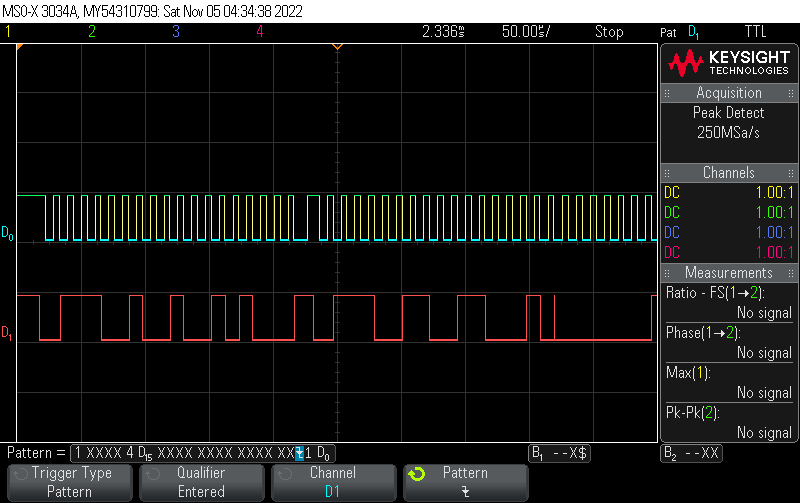
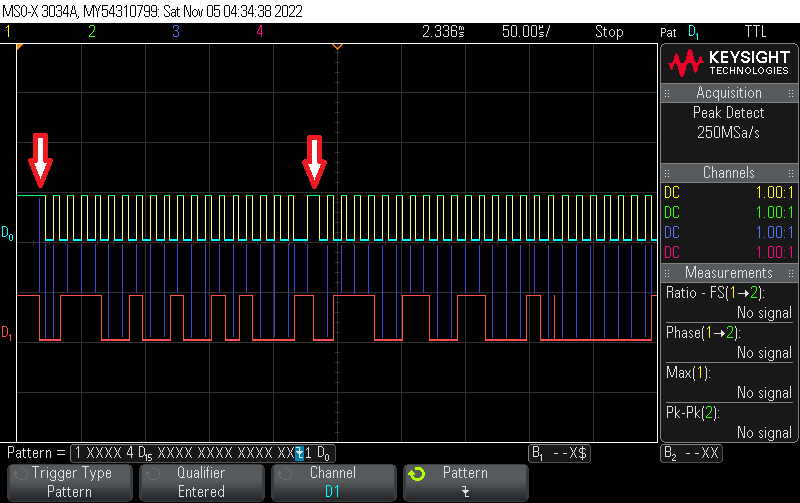
Updating section 05 with annotations

Changed region(s): [[0.375, 0.2684, 0.4062, 0.3877], [0.0312, 0.2684, 0.0625, 0.3877]]

diff --git a/lab/05_i2c_traffic/README.md b/lab/05_i2c_traffic/README.md
@@ -8,3 +8,29 @@
 
 Also captured the raw data from the logic analyzer. The computers in the lab also have an Excel plugin that lets you import the data directly from the scopes.
 Doesn't look like I got a full transaction due to limits of what I could fit on the screen, but I think I at least got the transmission of the device address.
+
+![](part5-i2c-apds_9960-individual-waveforms-annotations.png)
+
+### First section (red arrow)
+
+|Observed bits|Value|7-bit address|Note|
+|-------------|-----|-------------|----|
+|01110010|0x72|0x39|Device address, write|
+|0|ACK|
+|10010100|0x94
+|0|ACK|
+
+The RP2040 is requesting the value of the color sensor "Clear" channel, which is located at address 0x94. To do this, it needs to write that address to the APDS-9960, which has a 7-bit device address of 0x39. 
+
+### Second section (red arrow)
+
+|Observed bits|Value|7-bit address|Note|
+|-------------|-----|-------------|----|
+|01110011|0x73|0x39|Device address, read|
+|0|ACK|
+|01100010|0x62||data from APDS-9960|
+|0|ACK|
+
+The RP2040 requests to read a value from the sensor, and the sensor provides the value 0x62.
+
+
